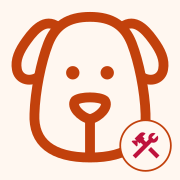
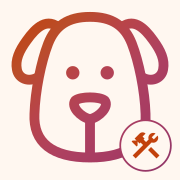
Polish gradients, compact mobile layout and alarm indicator

diff --git a/src/pages/WorkoutTimer.tsx b/src/pages/WorkoutTimer.tsx
@@ -1,8 +1,9 @@
 import { Button, Card, CardContent, Typography } from '@mui/material';
 import { useEffect, useId, useState } from 'react';
-import { warmColors, warmGradients } from '../theme';
+import { warmAccentStops, warmGradients } from '../theme';
 import ToolHeader from '../components/ToolHeader';
 import AlarmOnIcon from '@mui/icons-material/AlarmOn';
+import NotificationsActiveIcon from '@mui/icons-material/NotificationsActive';
 const title = 'Workout Timer';
 const rowStyle = {
   margin: '0.5rem',
@@ -24,7 +25,7 @@ const iconRowStyle = {
 };
 
 const dogImageStyle = {
-  height: '5rem',
+  height: '80px',
   width: 'auto',
   margin: '0 0.5rem',
 };
@@ -316,24 +317,32 @@ const WorkoutTimer = () => {
                     aria-valuemin={0} aria-valuemax={brakeTime} aria-valuenow={workoutFinished ? 0 : counter}>
                     <defs>
                       <linearGradient id={ringId} x1='0' y1='0' x2='1' y2='1'>
-                        <stop offset='0%' stopColor={warmColors.orange} />
-                        <stop offset='55%' stopColor={warmColors.coral} />
-                        <stop offset='100%' stopColor={warmColors.pink} />
+                        {warmAccentStops.map(({ offset, color }) => (
+                          <stop key={offset} offset={`${offset}%`} stopColor={color} />
+                        ))}
                       </linearGradient>
                     </defs>
                     <circle cx='104' cy='104' r='88' className='ring-track' />
                     <circle cx='104' cy='104' r='88' className='ring-progress'
                       stroke={`url(#${ringId})`} pathLength='100' strokeDasharray='100'
-                      strokeDashoffset={100 - (workoutFinished ? 0 : counter / brakeTime * 100)}
+                      strokeDashoffset={-(100 - (workoutFinished ? 0 : counter / brakeTime * 100))}
                       transform='rotate(-90 104 104)' />
                   </svg>
                   <div className='countdown-value'>
-                    <Typography variant='h1' component='h3' color='secondary.main'>{workoutFinished ? 0 : counter}</Typography>
-                    <Typography color='text.secondary' variant='body2'>seconds</Typography>
+                    {countdownRunning && counter === 0 && !workoutFinished ? (
+                      <div className='alarm-indicator' role='status' aria-label='Break finished. Alarm ringing.'>
+                        <NotificationsActiveIcon className='alarm-bell' color='secondary' aria-hidden='true' />
+                      </div>
+                    ) : (
+                      <>
+                        <Typography variant='h1' component='h3' color='secondary.main'>{workoutFinished ? 0 : counter}</Typography>
+                        <Typography color='text.secondary' variant='body2'>seconds</Typography>
+                      </>
+                    )}
                   </div>
                 </div>
                 <Typography color='text.secondary' sx={{ textAlign: 'center', mb: 2 }}>
-                  {workoutFinished ? 'Workout complete!' : countdownRunning ? 'Take a breath. Your next set is coming.' : 'Ready when you are.'}
+                  {workoutFinished ? 'Workout complete!' : countdownRunning && counter === 0 ? 'Break is over. Time for your next set!' : countdownRunning ? 'Take a breath. Your next set is coming.' : 'Ready when you are.'}
                 </Typography>
                 <div className='row' style={rowStyle}>
                   <BreakButton />

diff --git a/src/index.css b/src/index.css
@@ -50,11 +50,11 @@ code {
 .home-tools { display: grid; grid-template-columns: repeat(2, minmax(0, 1fr)); gap: 24px; }
 .tool-shortcut { height: 100%; }
 .shortcut-icon { font-size: 36px !important; }
-.shortcut-action { display: flex; align-items: center; gap: 8px; color: #9D174D; font-weight: 700; }
+.shortcut-action { display: flex; align-items: center; gap: 8px; color: var(--warm-pink); font-weight: 700; }
 .result-panel { padding: 20px; border: 1px solid var(--warm-border); border-radius: 16px; background: rgba(255, 255, 255, 0.6); }
 .result-unit { font-size: 0.5em; font-weight: 600; margin-left: 12px; }
 .countdown-ring { width: min(256px, 100%); aspect-ratio: 1; position: relative; margin: 16px auto; }
-.countdown-ring svg { width: 100%; height: 100%; }
+.countdown-ring > svg { width: 100%; height: 100%; }
 .ring-track, .ring-progress { fill: none; stroke-width: 10; }
 .ring-track { stroke: #F0D3C8; }
 .ring-progress { stroke-linecap: round; transition: stroke-dashoffset 0.5s ease; }
@@ -66,6 +66,18 @@ code {
 }
 @media (prefers-reduced-motion: reduce) { .ring-progress { transition: none; } }
 @keyframes result-appear { from { opacity: 0; transform: translateY(4px); } to { opacity: 1; transform: translateY(0); } }
+
+.alarm-indicator { display: flex; align-items: center; justify-content: center; }
+.alarm-indicator .alarm-bell { width: clamp(3.5rem, 12vw, 6rem); height: clamp(3.5rem, 12vw, 6rem); font-size: clamp(3.5rem, 12vw, 6rem); flex-shrink: 0; transform-origin: 50% 15%; }
+@media (prefers-reduced-motion: no-preference) {
+  .alarm-bell { animation: alarm-ring 0.65s ease-in-out infinite; }
+}
+@keyframes alarm-ring {
+  0%, 100% { transform: rotate(0); }
+  15%, 45% { transform: rotate(15deg); }
+  30%, 60% { transform: rotate(-15deg); }
+  75% { transform: rotate(6deg); }
+}
 
 @media (max-width: 599px) {
   .converter-form .tool-header { gap: 12px; margin-bottom: 12px; }
@@ -83,3 +95,27 @@ code {
 }
 
 .countdown-value h3, .result-panel strong { font-variant-numeric: tabular-nums; }
+
+/* Leave room for browser chrome on small phone screens. */
+@media (max-width: 599px) {
+  html { font-size: 90%; }
+  .app-content { padding: 12px; }
+  .tool-header { gap: 12px; margin-bottom: 16px; }
+  .home-hero { padding: 16px 0 24px; }
+  .home-logo { width: 86px; height: 86px; margin-bottom: 16px; }
+  .countdown-ring { width: min(230px, 100%); margin: 12px auto; }
+  .converter-form .tool-header { margin-bottom: 8px; }
+  .converter-form .tool-header h1 { font-size: 1.5rem; }
+  .converter-form .tool-header p { line-height: 1.3; }
+  .converter-form .converter-grid { gap: 8px; }
+  .converter-form .converter-grid .row { margin-bottom: 6px !important; }
+  .converter-form .converter-grid > .row { margin-bottom: 0 !important; }
+  .converter-form .MuiCardContent-root,
+  .converter-form .MuiCardContent-root:last-child { padding: 10px; }
+  .converter-form .result-panel { padding: 10px; }
+  .converter-form .result-panel p { margin-top: 4px; }
+  .converter-form .converter-actions { gap: 4px; }
+  .converter-form .converter-actions > div { padding: 0; }
+}
+
+.ui-gradient-definitions { position: absolute; width: 0; height: 0; pointer-events: none; overflow: hidden; }

diff --git a/src/theme.ts b/src/theme.ts
@@ -5,16 +5,25 @@ export const warmColors = {
   text: '#4B2923',
   mutedText: '#765047',
   orange: '#C2410C',
-  coral: '#BE123C',
-  pink: '#9D174D',
+  coral: '#B8444A',
+  pink: '#8E246A',
   border: '#F0D3C8',
 };
 
+export const warmAccentStops = [
+  { offset: 0, color: warmColors.orange },
+  { offset: 20, color: '#BA4D29' },
+  { offset: 40, color: warmColors.coral },
+  { offset: 60, color: '#AE4160' },
+  { offset: 80, color: '#A63B63' },
+  { offset: 100, color: '#923668' },
+];
+
 export const warmGradients = {
-  accent: 'linear-gradient(110deg, #C2410C 0%, #BE123C 55%, #9D174D 100%)',
-  peach: 'linear-gradient(135deg, #FFFAF5 0%, #FFE8D6 100%)',
-  rose: 'linear-gradient(135deg, #FFF9F6 0%, #FFE4EC 100%)',
-  home: 'linear-gradient(135deg, #FFFAF5, #FFE8D6 55%, #FFE4EC)',
+  accent: `linear-gradient(90deg, ${warmAccentStops.map(({ offset, color }) => `${color} ${offset}%`).join(', ')})`,
+  peach: 'linear-gradient(135deg, #FFFAF5 0%, #FFE5D4 100%)',
+  rose: 'linear-gradient(135deg, #FFF9F6 0%, #FFE5E5 100%)',
+  home: 'linear-gradient(135deg, #FFFAF5, #FFE5D4 60%, #FFE5E5)',
 };
 
 const focusRing = {
@@ -44,14 +53,18 @@ const theme = createTheme({
       styleOverrides: {
         ':root': {
           '--warm-border': warmColors.border,
+          '--warm-pink': warmColors.pink,
           '--warm-home-gradient': warmGradients.home,
           '--warm-card-shadow': '0 8px 24px rgba(106, 49, 44, 0.08)',
         },
         body: {
           minHeight: '100vh',
-          background: 'radial-gradient(ellipse at top left, #FFE8D6 0%, transparent 55%), radial-gradient(ellipse at bottom right, #FFE4EC 0%, transparent 55%), #FFF7F0',
+          background: 'radial-gradient(ellipse at top left, #FFE5D4 0%, transparent 55%), radial-gradient(ellipse at bottom right, #FFE5E5 0%, transparent 65%), #FFF7F0',
         },
         'a:focus-visible': focusRing,
+        '.tool-header-icon > svg, svg.shortcut-icon, .alarm-indicator .alarm-bell, .MuiRadio-root.Mui-checked:not(.Mui-disabled) svg': {
+          fill: 'url(#multitool-ui-gradient) #C2410C',
+        },
       },
     },
     MuiAppBar: {

diff --git a/src/pages/WorkoutTimer.test.tsx b/src/pages/WorkoutTimer.test.tsx
@@ -50,6 +50,8 @@ test('counts a completed set, stops the break, and resets its countdown', () => 
   expect(screen.getByRole('heading', { name: '7' })).toBeInTheDocument();
   expect(screen.getByRole('progressbar', { name: 'Break time remaining' }))
     .toHaveAttribute('aria-valuenow', '7');
+  // The gap starts at twelve o'clock and advances clockwise as time elapses.
+  expect(document.querySelector('.ring-progress')).toHaveAttribute('stroke-dashoffset', '-30');
   expect(screen.getAllByRole('img', { name: 'woof!' })).toHaveLength(1);
   click('Stop');
   advanceSeconds(3);
@@ -69,12 +71,17 @@ test('plays the alarm when the break expires and stops it on request', () => {
   expect(HTMLMediaElement.prototype.play).not.toHaveBeenCalled();
   advanceSeconds(1);
 
-  expect(screen.getByRole('heading', { name: '0' })).toBeInTheDocument();
+  expect(screen.getByRole('status', { name: 'Break finished. Alarm ringing.' })).toBeInTheDocument();
+  expect(screen.queryByRole('heading', { name: '0' })).not.toBeInTheDocument();
+  expect(screen.queryByText('seconds')).not.toBeInTheDocument();
   expect(screen.getByRole('progressbar', { name: 'Break time remaining' }))
     .toHaveAttribute('aria-valuenow', '0');
   expect(HTMLMediaElement.prototype.play).toHaveBeenCalledTimes(1);
   click('Stop');
   expect(HTMLMediaElement.prototype.pause).toHaveBeenCalledTimes(1);
+  expect(screen.queryByRole('status', { name: 'Break finished. Alarm ringing.' })).not.toBeInTheDocument();
+  expect(screen.getByRole('heading', { name: '10' })).toBeInTheDocument();
+  expect(screen.getByText('seconds')).toBeInTheDocument();
 });
 
 test('finishes after the last set without another break and starts a new workout', () => {

diff --git a/src/pages/Root.tsx b/src/pages/Root.tsx
@@ -1,9 +1,19 @@
 import { Outlet } from 'react-router-dom';
 import ResponsiveAppBar from '../components/ResponsiveAppBar';
+import { warmAccentStops } from '../theme';
 
 function Root() {
   return (
     <>
+      <svg className='ui-gradient-definitions' aria-hidden='true' focusable='false'>
+        <defs>
+          <linearGradient id='multitool-ui-gradient' x1='0%' y1='0%' x2='100%' y2='100%'>
+            {warmAccentStops.map(({ offset, color }) => (
+              <stop key={offset} offset={`${offset}%`} stopColor={color} />
+            ))}
+          </linearGradient>
+        </defs>
+      </svg>
       <ResponsiveAppBar />
       <main className="app-content">
         <Outlet />

diff --git a/README.md b/README.md
@@ -68,7 +68,7 @@ Pliki tekstowe używają końców linii LF, zgodnie z `.gitattributes`.
 
 ## Ikona instalowanej aplikacji
 
-Manifest używa nazwy **MultiTool** i pomarańczowej ikony psa na kremowym tle z plakietką młotka
+Manifest używa nazwy **MultiTool** i ikony psa z ciepłym gradientem na kremowym tle z plakietką młotka
 i klucza. Źródło wektorowe znajduje się w `public/multitool-icon.svg`.
 Gotowe eksporty obejmują PNG 192×192 i 512×512, ikonę Apple 180×180,
 favicon 16/32/48 px oraz osobną ikonę maskable 512×512. W wersji maskable
@@ -88,8 +88,17 @@ szerokości (`tabular-nums`).
 Pliki pochodzą z Google Fonts; licencja SIL OFL znajduje się w `public/fonts/OFL.txt`.
 Podczas korzystania z aplikacji font nie wymaga połączenia z Google Fonts.
 
-Pieski w liczniku używają `public/dog.svg`, z tą samą głową i pomarańczowym
-kolorem co ikona PWA. Ich rozmiar pozostaje bez zmian.
+Pieski w liczniku używają `public/dog.svg`, z tą samą głową i ciepłym
+gradientem co ikona PWA. Ich rozmiar pozostaje bez zmian.
 
 Home wyświetla wspólny symbol SVG bez tła i cienia kafelka. Eksporty PNG oraz
 favicon mają kremowe tło `#FFF7F0`, dopasowane do bazowego tła aplikacji.
+
+Na telefonach układ używa typografii mniejszej o 10% i ciaśniejszych odstępów,
+aby przelicznik mieścił się w obszarze 393×740 px po uwzględnieniu pasków
+przeglądarki. Duże pieski zachowują wysokość 80 px. Akcenty są bardziej różowe,
+a pierścień przerwy odsłania tło zgodnie z ruchem wskazówek zegara.
+
+Pieski, ikony narzędzi, dzwonek alarmu i zaznaczone radio buttony używają
+gradientu pomarańczowo-koralowo-różowego. Niezaznaczone i nieaktywne radio
+buttony pozostają jednokolorowe, aby zachować czytelne stany interakcji.
